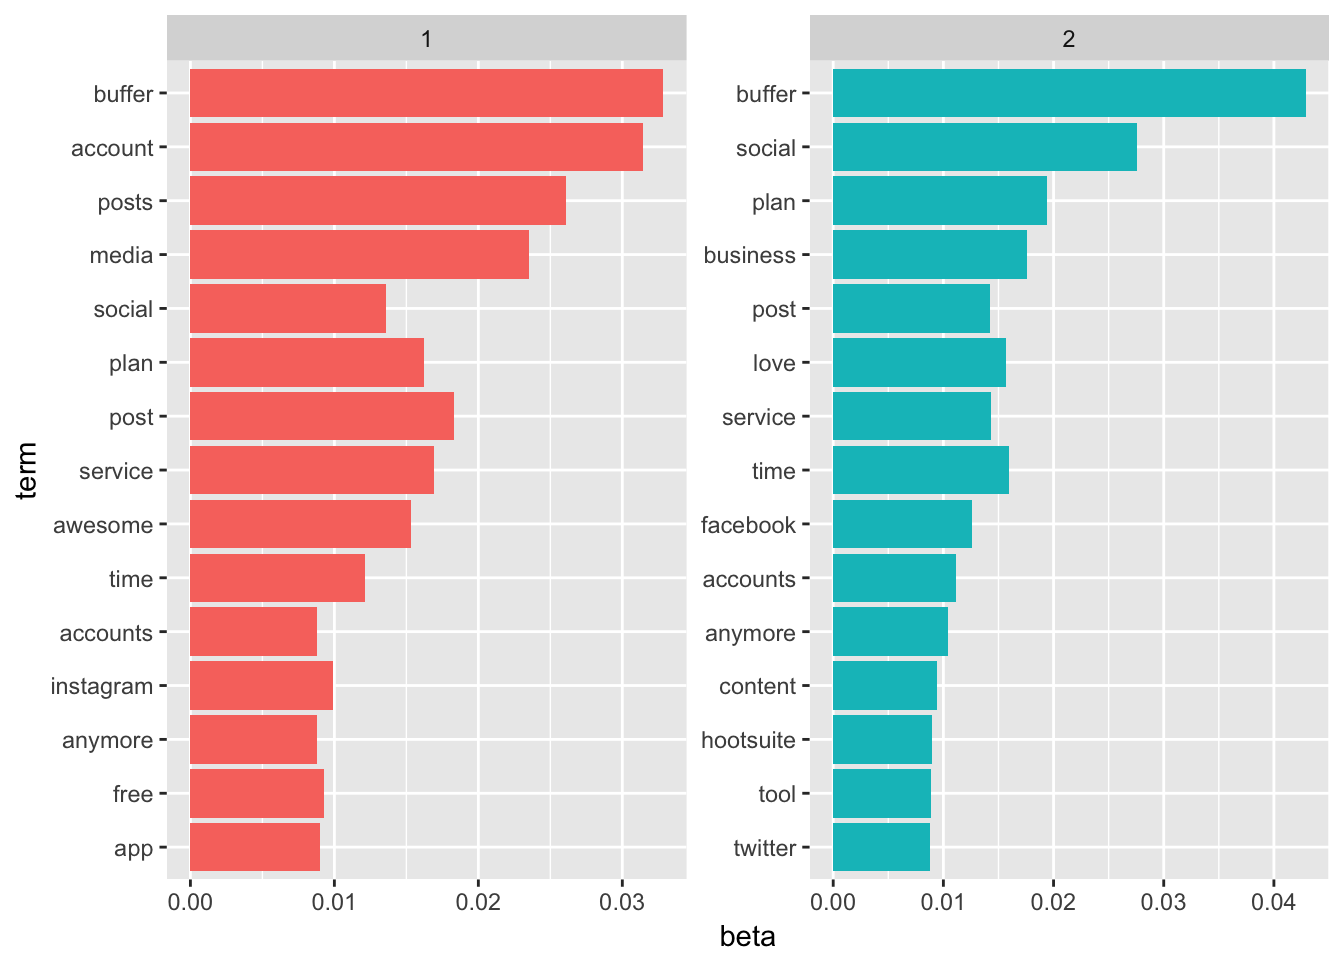
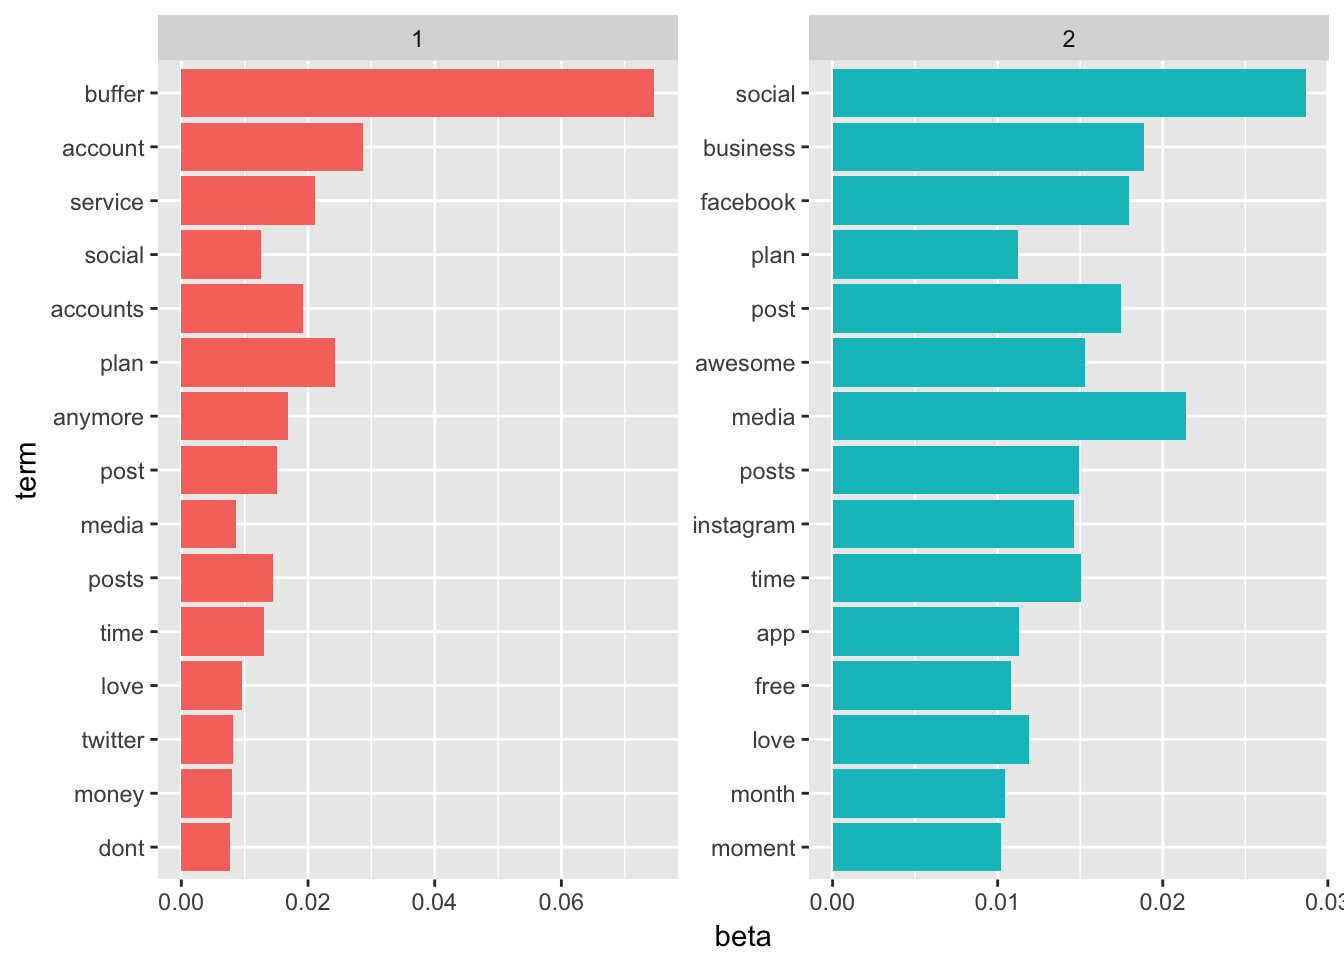
GOT analysis

diff --git a/content/blog/churn-survey-text-analysis.html b/content/blog/churn-survey-text-analysis.html
@@ -343,16 +343,16 @@ inspect(dtm_new)</code></pre>
 ## Sample             :
 ##       Terms
 ## Docs   account buffer business media plan post posts service social time
-##   1004       0      0        0     0    0    0     0       0      0    0
-##   1005       0      0        0     0    0    0     0       0      0    0
-##   1041       0      0        0     0    0    0     0       0      0    0
-##   1042       0      0        0     0    0    0     0       0      0    0
-##   1074       0      0        0     0    0    0     0       0      0    0
-##   225        0      0        0     0    0    0     0       0      0    0
-##   323        0      0        0     0    0    0     0       0      0    0
-##   350        0      0        0     0    0    0     0       0      0    0
-##   661        0      0        0     0    0    0     0       0      0    0
-##   903        0      0        0     0    0    0     0       0      0    0</code></pre>
+##   1058       0      0        0     0    0    0     0       0      0    0
+##   1192       0      0        0     0    0    0     0       0      0    0
+##   1352       0      0        0     0    0    0     0       0      0    0
+##   1353       0      0        0     0    0    0     0       0      0    0
+##   1607       0      0        0     0    0    0     0       0      0    0
+##   221        0      0        0     0    0    0     0       0      0    0
+##   345        0      0        0     0    0    0     0       0      0    0
+##   425        0      0        0     0    0    0     0       0      0    0
+##   634        0      0        0     0    0    0     0       0      0    0
+##   888        0      0        0     0    0    0     0       0      0    0</code></pre>
 <pre class="r"><code># Set a seed so that the output of the model is predictable
 lda &lt;- LDA(dtm_new, k = 2, control = list(seed = 1234))
 lda</code></pre>
@@ -367,18 +367,18 @@ lda</code></pre>
 <pre class="r"><code>topics &lt;- tidy(lda, matrix = &quot;beta&quot;)
 topics</code></pre>
 <pre><code>## # A tibble: 6,416 x 3
-##    topic         term         beta
-##    &lt;int&gt;        &lt;chr&gt;        &lt;dbl&gt;
-##  1     1 considerable 4.275379e-05
-##  2     2 considerable 7.518964e-05
-##  3     1        basil 3.542110e-05
-##  4     2        basil 8.253089e-05
-##  5     1          bob 4.662327e-05
-##  6     2          bob 7.131566e-05
-##  7     1      sproutt 7.354499e-05
-##  8     2      sproutt 4.436252e-05
-##  9     1  progressing 4.469734e-05
-## 10     2  progressing 7.324383e-05
+##    topic        term         beta
+##    &lt;int&gt;       &lt;chr&gt;        &lt;dbl&gt;
+##  1     1 polytechnic 3.959615e-05
+##  2     2 polytechnic 7.845953e-05
+##  3     1    kwantlen 3.258622e-05
+##  4     2    kwantlen 8.551692e-05
+##  5     1       basil 4.332729e-05
+##  6     2       basil 7.470312e-05
+##  7     1         bob 7.015262e-05
+##  8     2         bob 4.769613e-05
+##  9     1       teach 4.147078e-05
+## 10     2       teach 7.657219e-05
 ## # ... with 6,406 more rows</code></pre>
 <p>This has turned the model into a one-topic-per-term-per-row format. For each combination, the model computes the probability of that term being generated from that topic.</p>
 <p>We could use <code>dplyr</code>’s <code>top_n()</code> to find the 10 terms that are most common within each topic.</p>

diff --git a/content/blog/got-screentimes.html b/content/blog/got-screentimes.html
@@ -2,6 +2,7 @@
 date: 2017-07-08T09:40:56-04:00
 subtitle: ""
 tags: []
+type: "post"
 title: "Game of Thrones: Who Steals the Show?"
 ---
 
